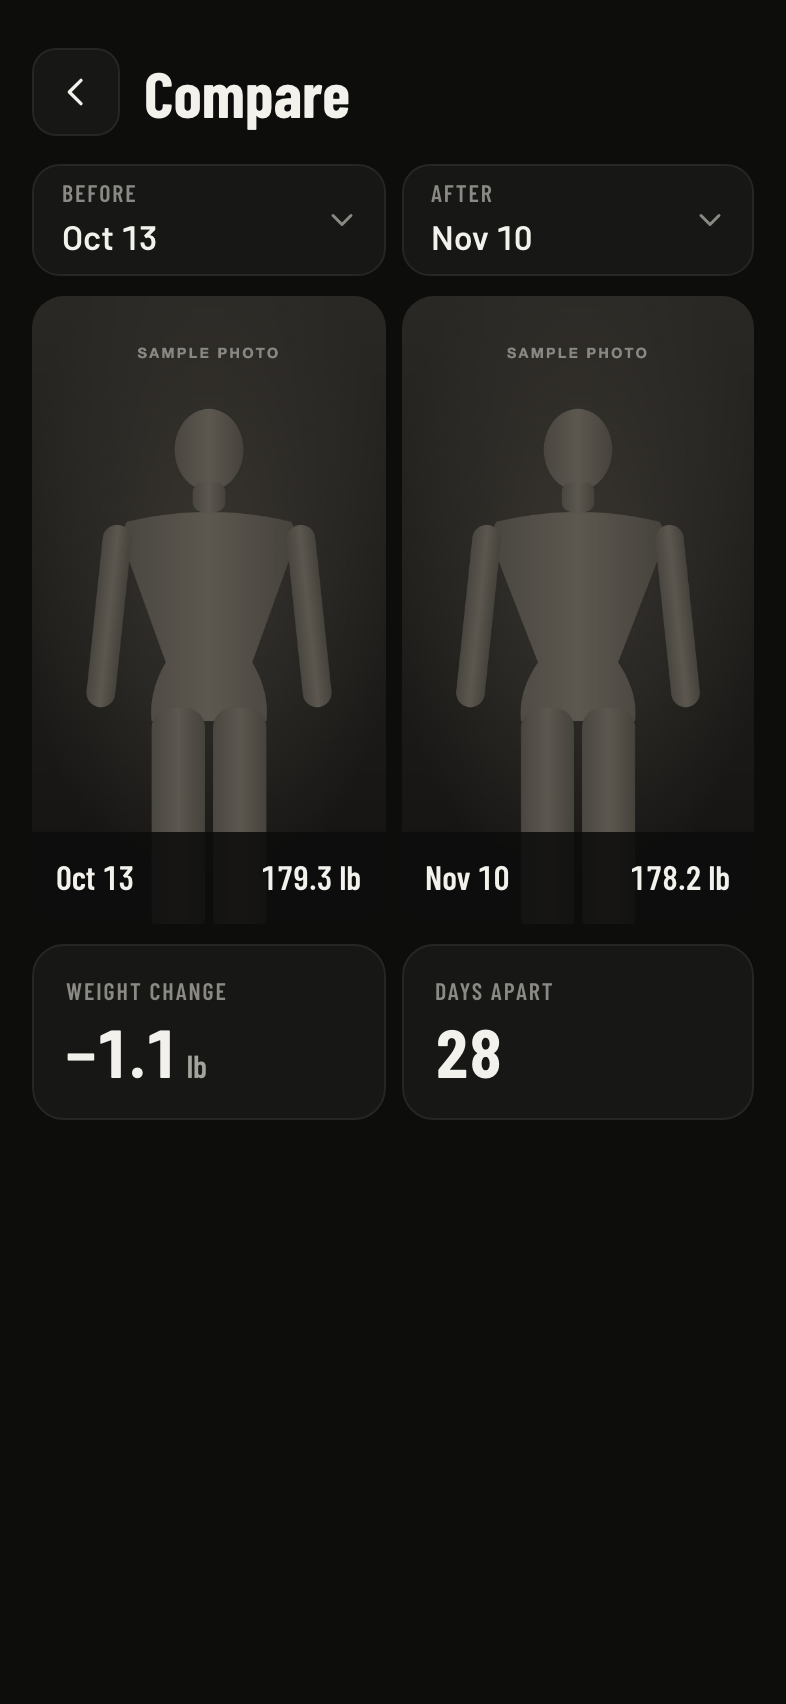
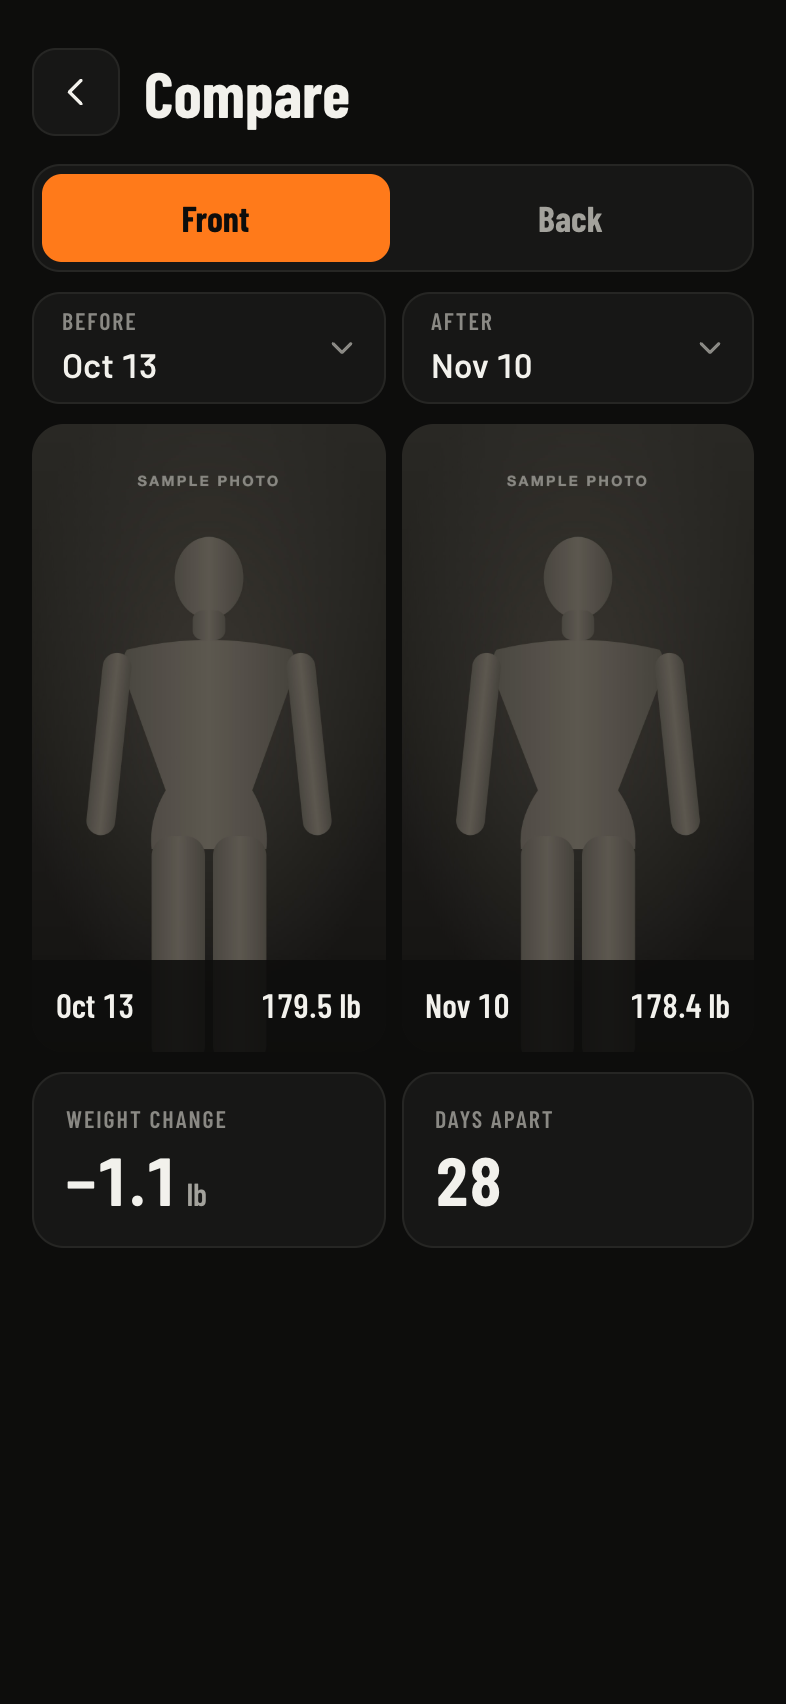
docs: describe the back photo and retake the README screenshots
The README mentions the optional back photo and the weekly back photos
in the seed. The screenshots were retaken from one fresh seed, since
Compare now has a Front/Back switch.

diff --git a/README.md b/README.md
@@ -12,7 +12,7 @@ Each deployment has one owner. It runs on Next.js, Vercel and Supabase. The prod
   </tr>
   <tr>
     <td align="center"><img src="docs/screenshots/day.png" width="250" alt="Day: the day's weight with its 7-day average, every set, and the add-ons active that day"><br>Day</td>
-    <td align="center"><img src="docs/screenshots/compare.png" width="250" alt="Compare: two days' photos side by side with the weight change and the days between them"><br>Compare</td>
+    <td align="center"><img src="docs/screenshots/compare.png" width="250" alt="Compare: two days' front or back photos side by side with the weight change and the days between them"><br>Compare</td>
     <td align="center"><img src="docs/screenshots/addons.png" width="250" alt="Add-ons: active add-ons with their day count, and past periods with their dates"><br>Add-ons</td>
   </tr>
 </table>
@@ -23,7 +23,7 @@ The screenshots show the fake data from `npm run seed`.
 
 - **Morning weight.** A smart scale posts each weigh-in through an ESP32 bridge. You can also enter it by hand from Home.
 - **Sets.** Dictate or type one line, like "bench 185 for 6". A rule-based parser reads it against your exercise names and aliases, with no AI calls, and the set number fills itself in.
-- **A daily photo.** The camera shows an outline of a relaxed front pose to stand in, and a faint ghost of your last photo, so every shot lines up. Photos stay in a private storage bucket and are never sent to Claude.
+- **A daily photo.** The camera shows an outline of a relaxed front pose to stand in, and a faint ghost of your last photo, so every shot lines up. You can also take an optional back photo, with a 10-second timer to turn around, since the front doesn't show your back. Photos stay in a private storage bucket and are never sent to Claude.
 - **Add-ons.** Creatine, preworkout, cardio or anything else you're running, stored as dated periods so changes can be compared later.
 - **Day status.** Every day ends up trained, rest or skipped. A rest day is free when you trained on 6 of the 7 days before it (Settings has a stricter rule). Otherwise skipping needs a written reason, and a past day left empty locks the app until you explain it.
 
@@ -48,7 +48,7 @@ npm run dev
 
 Open http://localhost:3000 and sign in as `owner@example.com` with the password `local-only-password`.
 
-The seed creates 90 days of obviously fake data: weigh-ins (including repeated scale broadcasts and one reading from someone else), sets, rest days, skips, add-ons and placeholder photos. It refuses to run against anything but the local stack. To start over, run `npx supabase db reset`, then `npm run seed`.
+The seed creates 90 days of obviously fake data: weigh-ins (including repeated scale broadcasts and one reading from someone else), sets, rest days, skips, add-ons and placeholder photos, with a back photo once a week. It refuses to run against anything but the local stack. To start over, run `npx supabase db reset`, then `npm run seed`.
 
 Before committing, run `npm run typecheck`, `npm run lint` and `npm test`. `npm run test:db` runs the database tests against the local stack.
 
